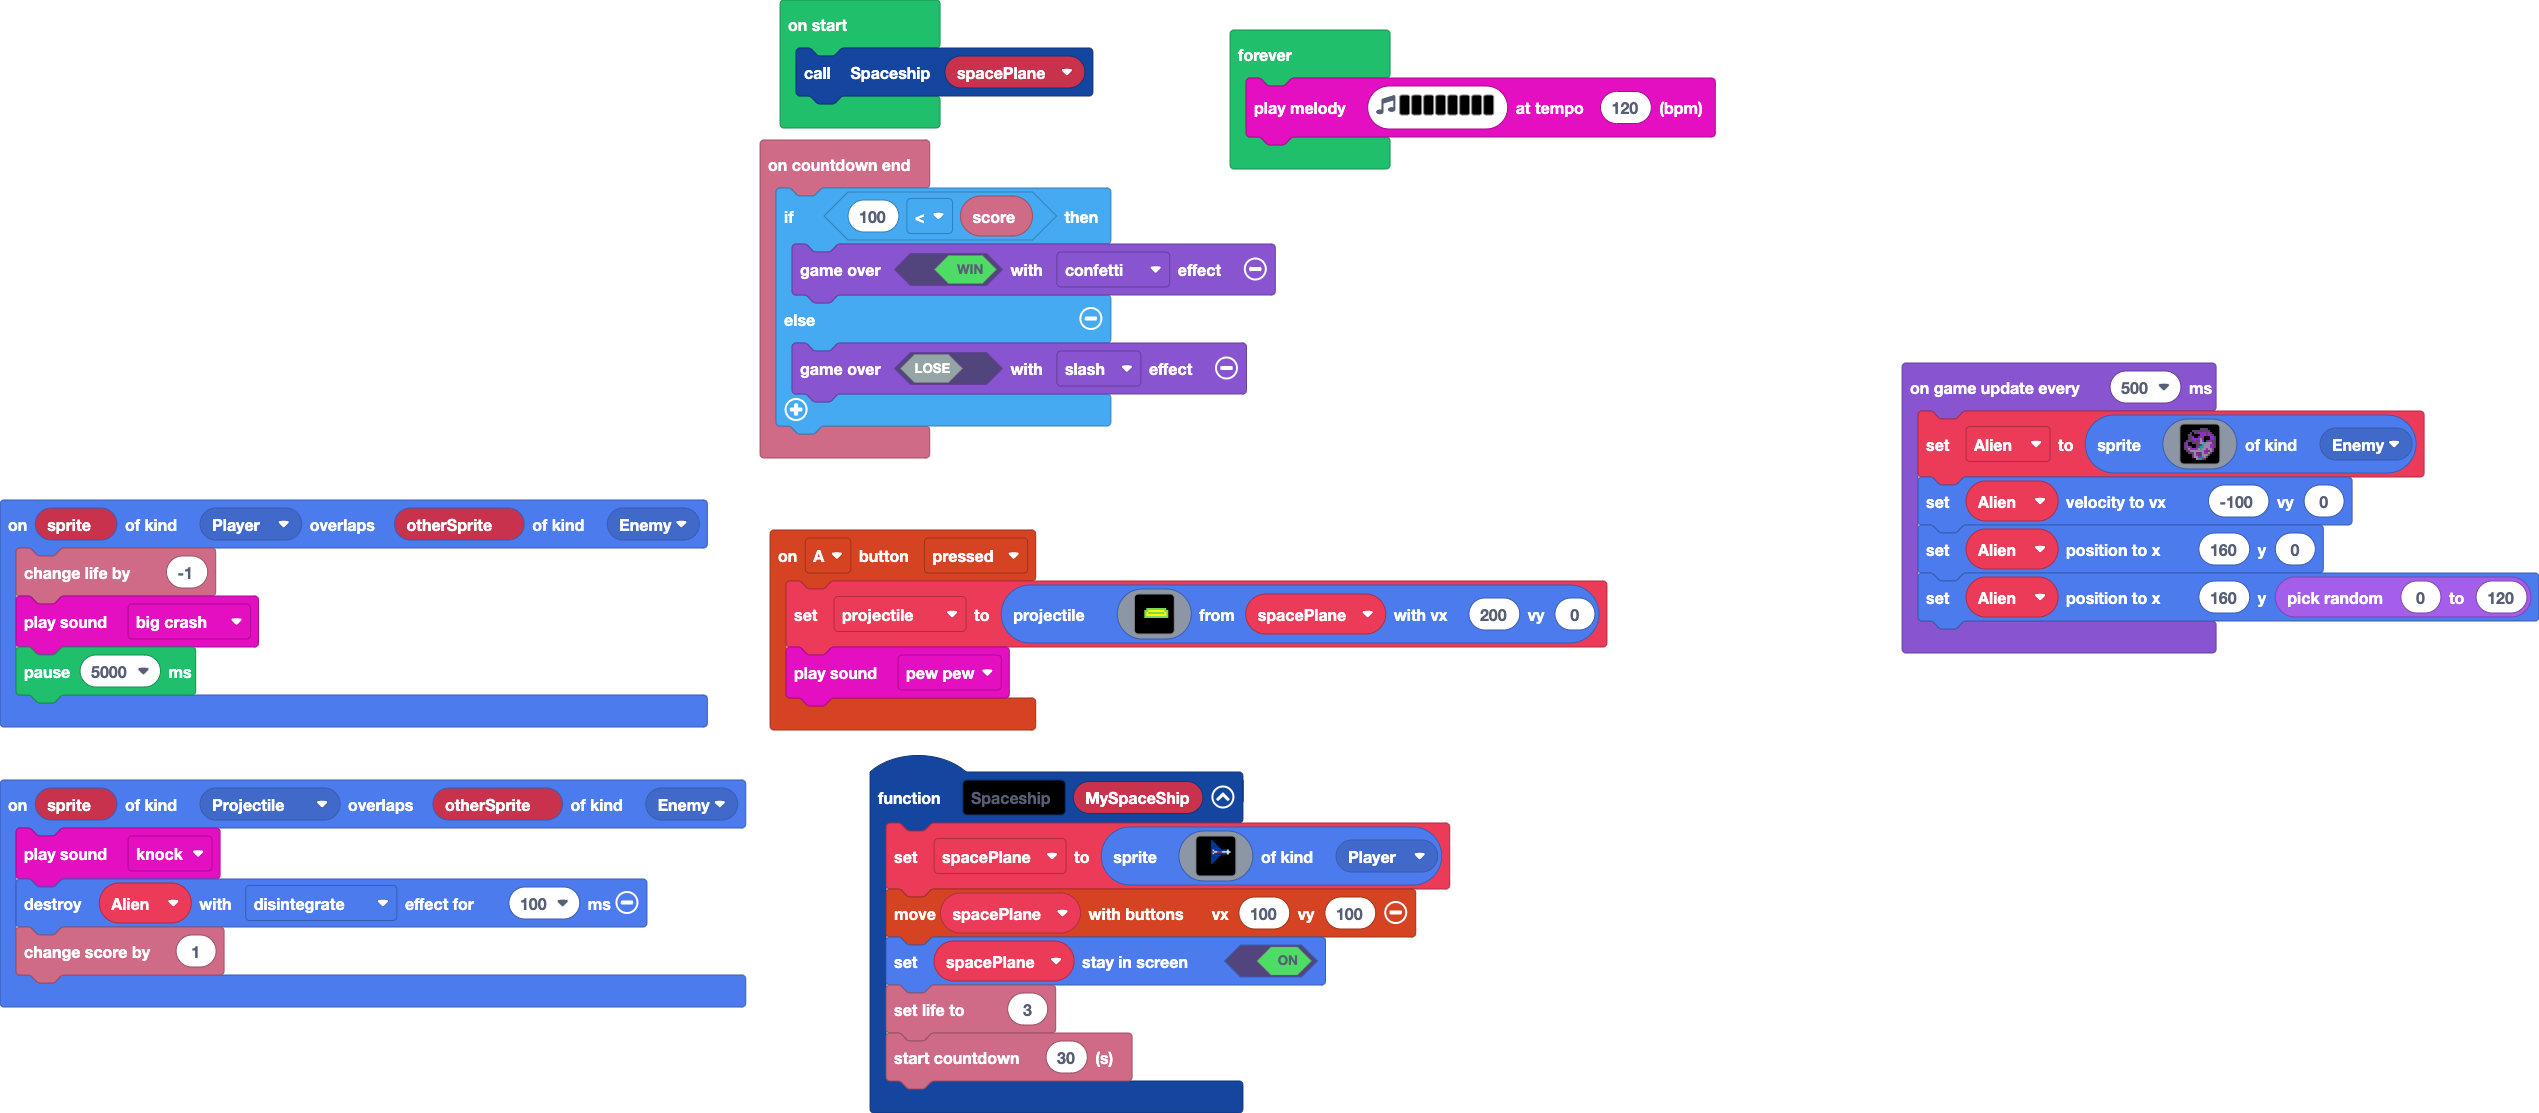
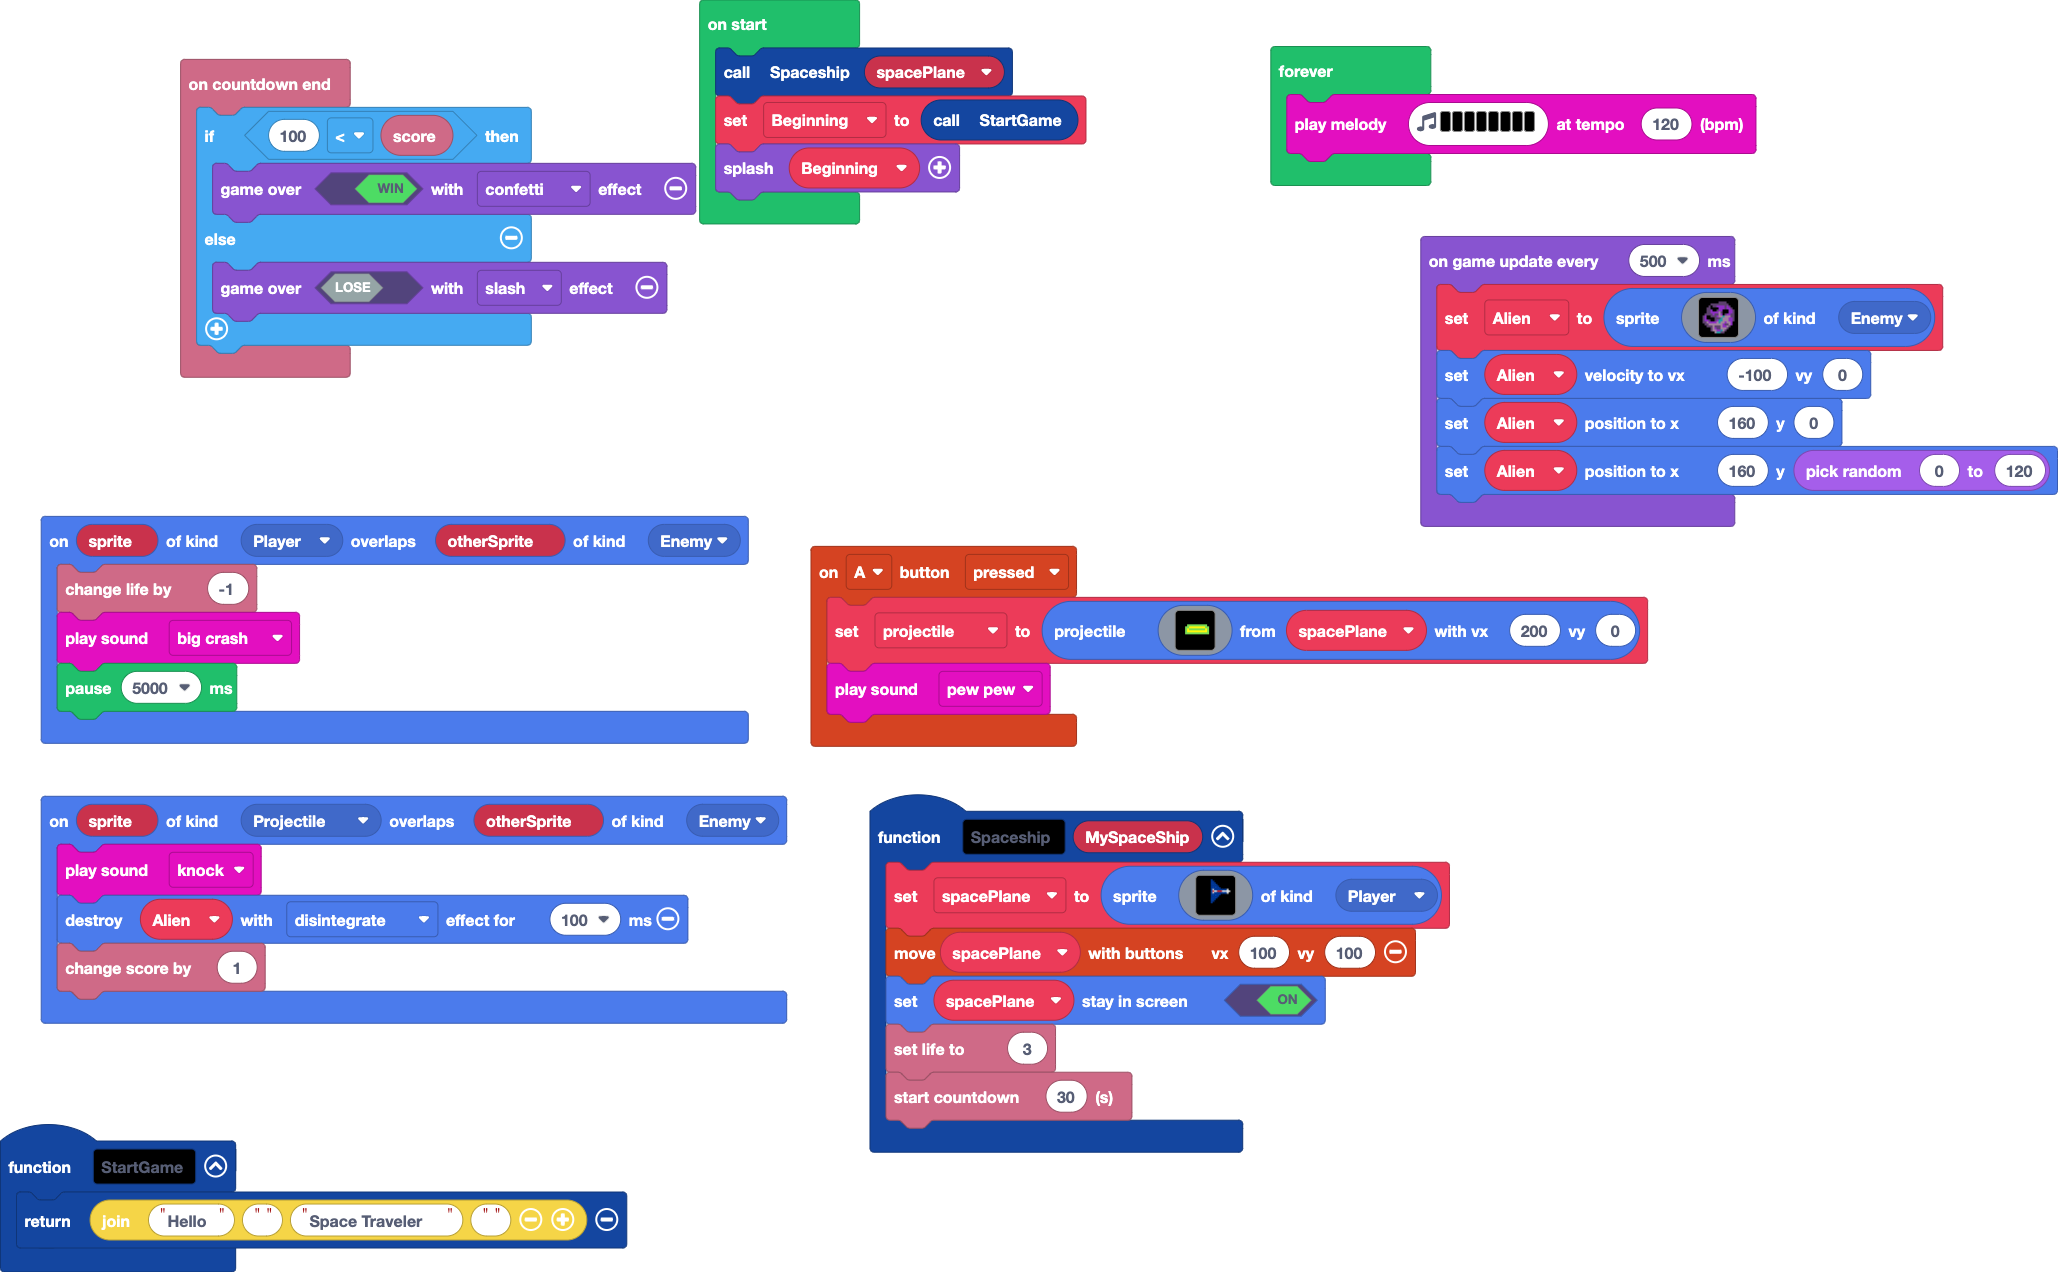
Update main.blocks, main.ts

diff --git a/main.ts b/main.ts
@@ -26,6 +26,9 @@ info.onCountdownEnd(function () {
         game.over(false, effects.slash)
     }
 })
+function StartGame () {
+    return "Hello" + "" + "Space Traveler" + ""
+}
 sprites.onOverlap(SpriteKind.Projectile, SpriteKind.Enemy, function (sprite, otherSprite) {
     music.knock.play()
     Alien.destroy(effects.disintegrate, 100)
@@ -68,6 +71,8 @@ let Alien: Sprite = null
 let projectile: Sprite = null
 let spacePlane: Sprite = null
 Spaceship(spacePlane)
+let Beginning = StartGame()
+game.splash(Beginning)
 forever(function () {
     music.playMelody("C5 B A A B A A B ", 120)
 })
